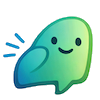
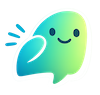
Corrected distorted versions of images and removed light/dark swap

diff --git a/src/renderer/components/Onboarding.tsx b/src/renderer/components/Onboarding.tsx
@@ -102,7 +102,7 @@ export default function Onboarding({ onComplete }: OnboardingProps) {
       <div className="onboarding-card">
         {step === 'welcome' && (
           <div className="onboarding-step">
-            <img src={isDark ? './nudge_logo_cropped_dark.png' : './nudge_logo_cropped.png'} alt="Nudge" className="onboarding-logo" />
+            <img src='./nudge_logo_cropped.png' alt="Nudge" className="onboarding-logo" />
             <h1 className="onboarding-heading">Welcome to Nudge</h1>
             <p className="onboarding-text">
               A gentle productivity companion for ADHD brains.

diff --git a/src/renderer/components/ChatPanel.tsx b/src/renderer/components/ChatPanel.tsx
@@ -66,7 +66,7 @@ export default function ChatPanel({
         {isEmpty ? (
           <div className="chat-panel-empty">
             <div className="chat-panel-empty-logo">
-              <img src={isDark ? './icon_sm_dark.png' : './icon_sm.png'} alt="Nudge" width="56" height="56" />
+              <img src='./icon_sm.png' alt="Nudge" width="56" height="56" />
             </div>
             <h2 className="chat-panel-empty-title">What would you like to work on?</h2>
             <div className="chat-panel-empty-chips">
